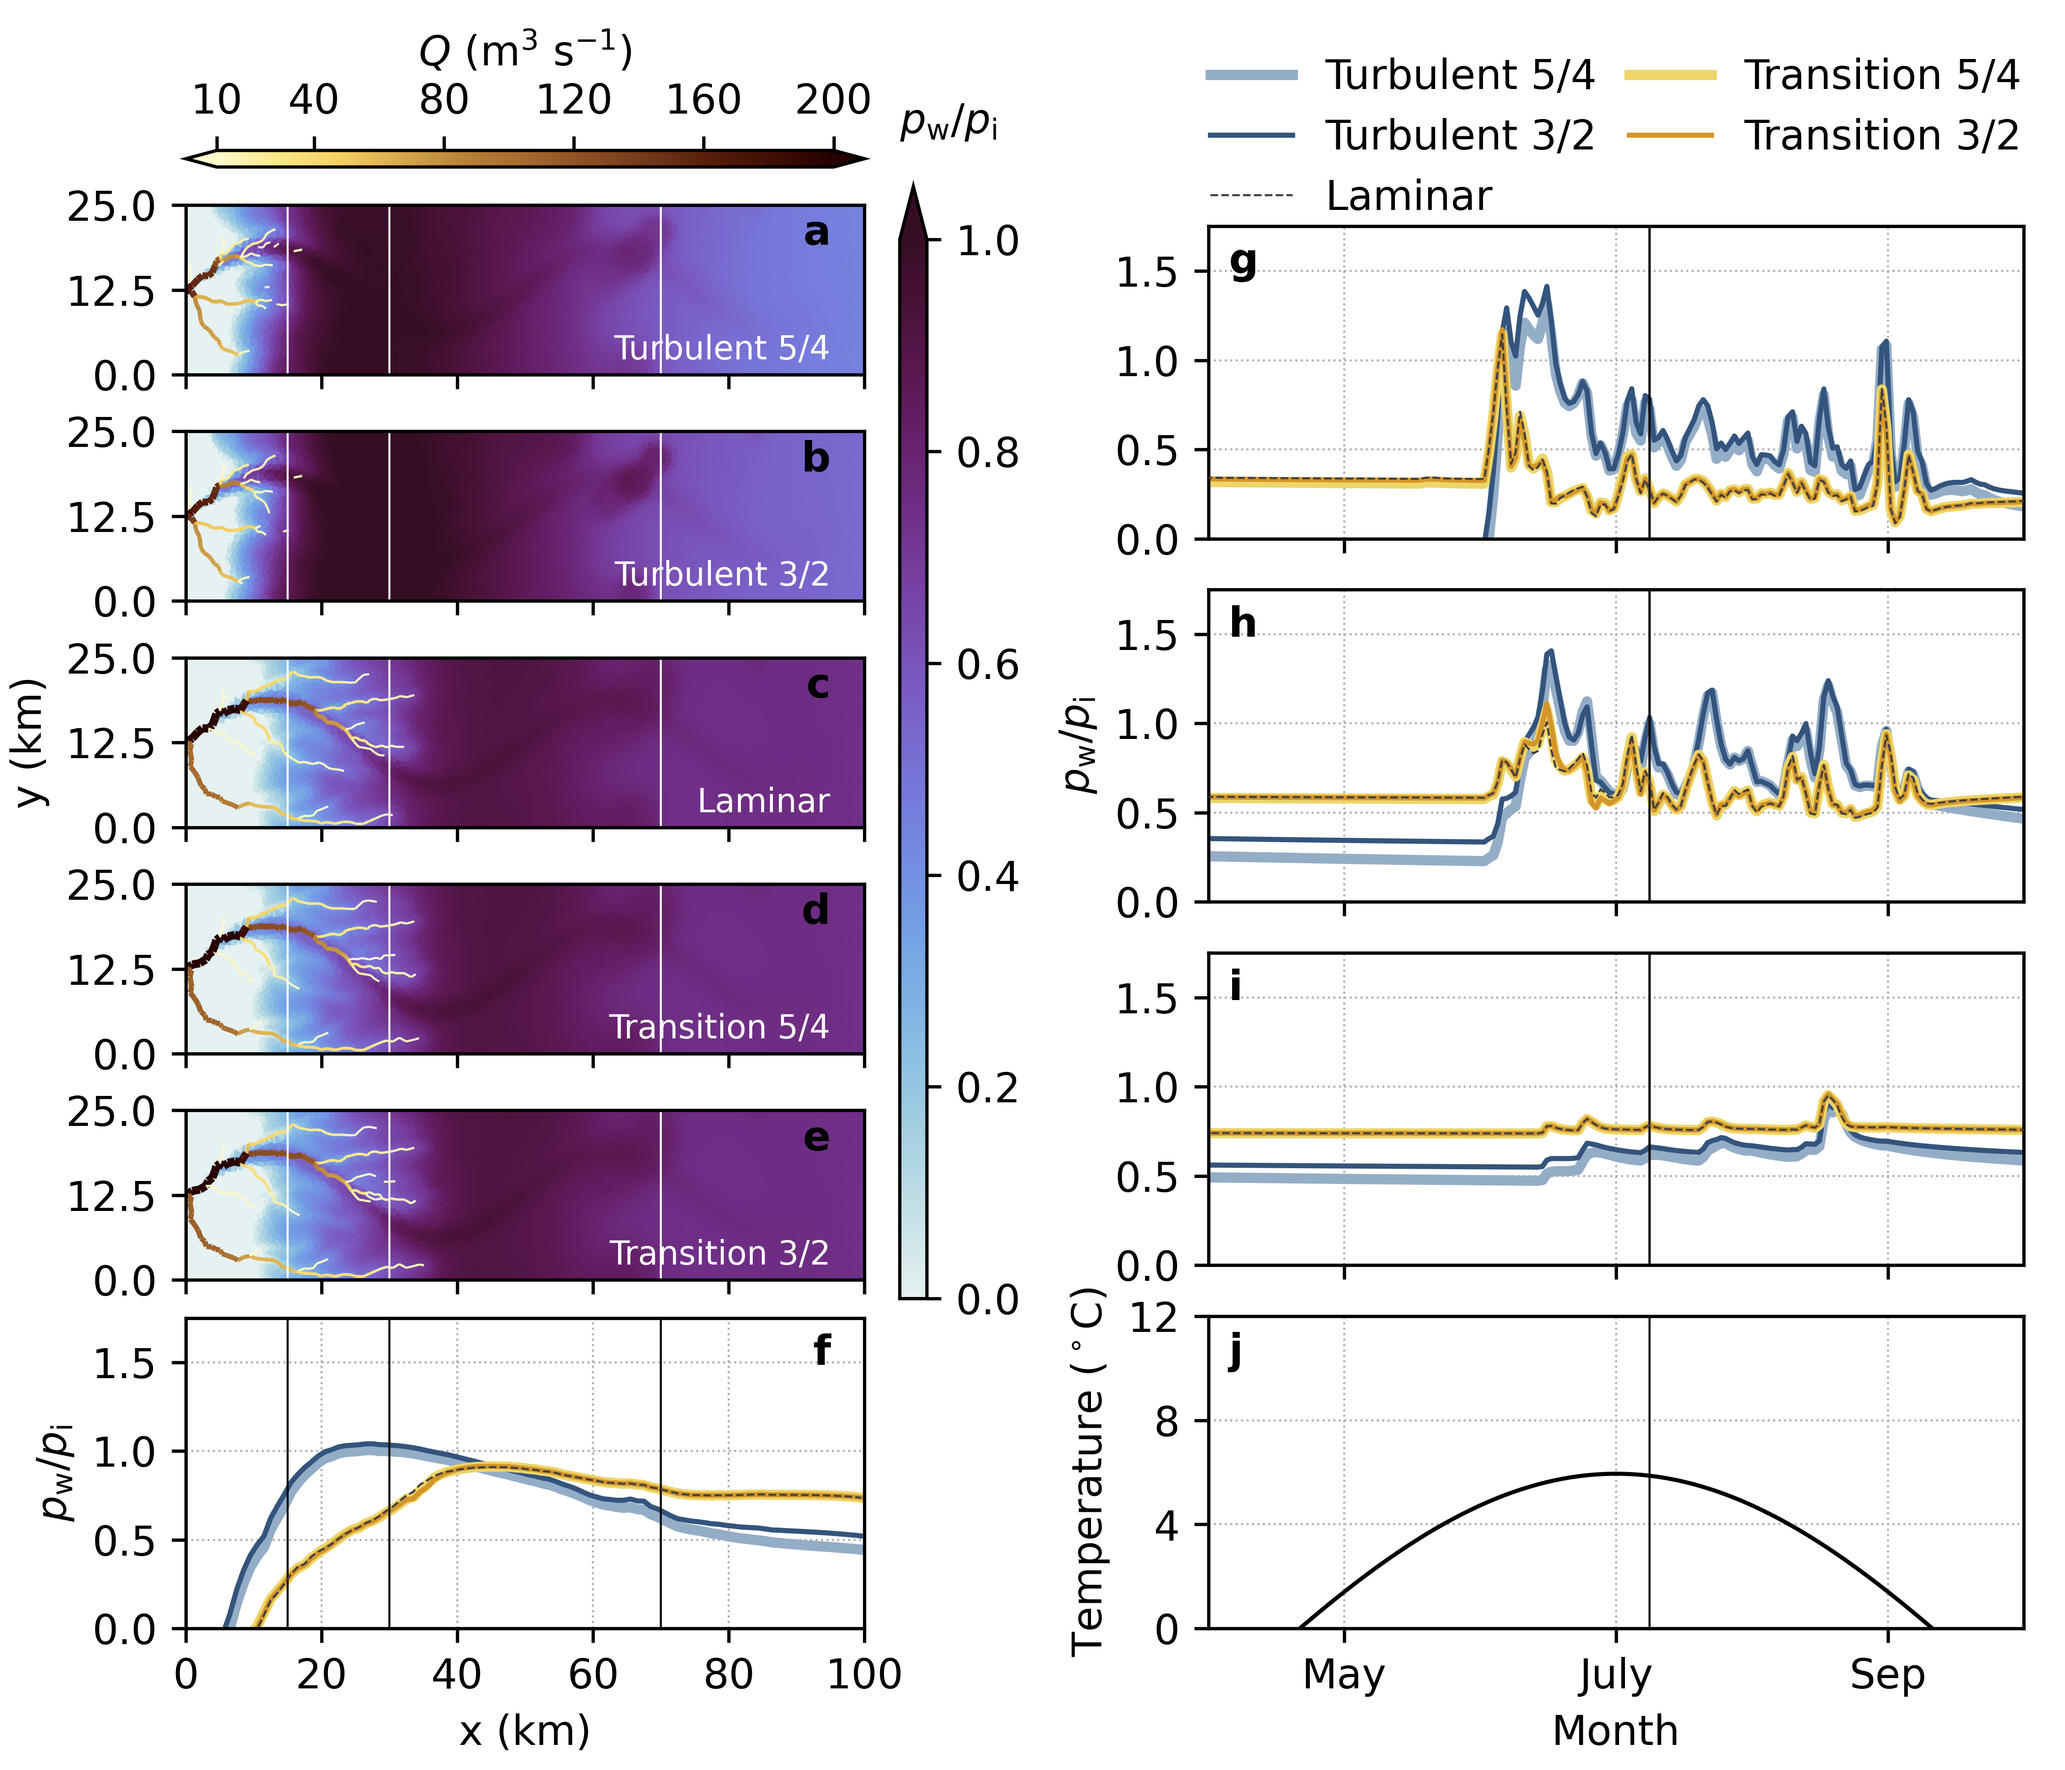
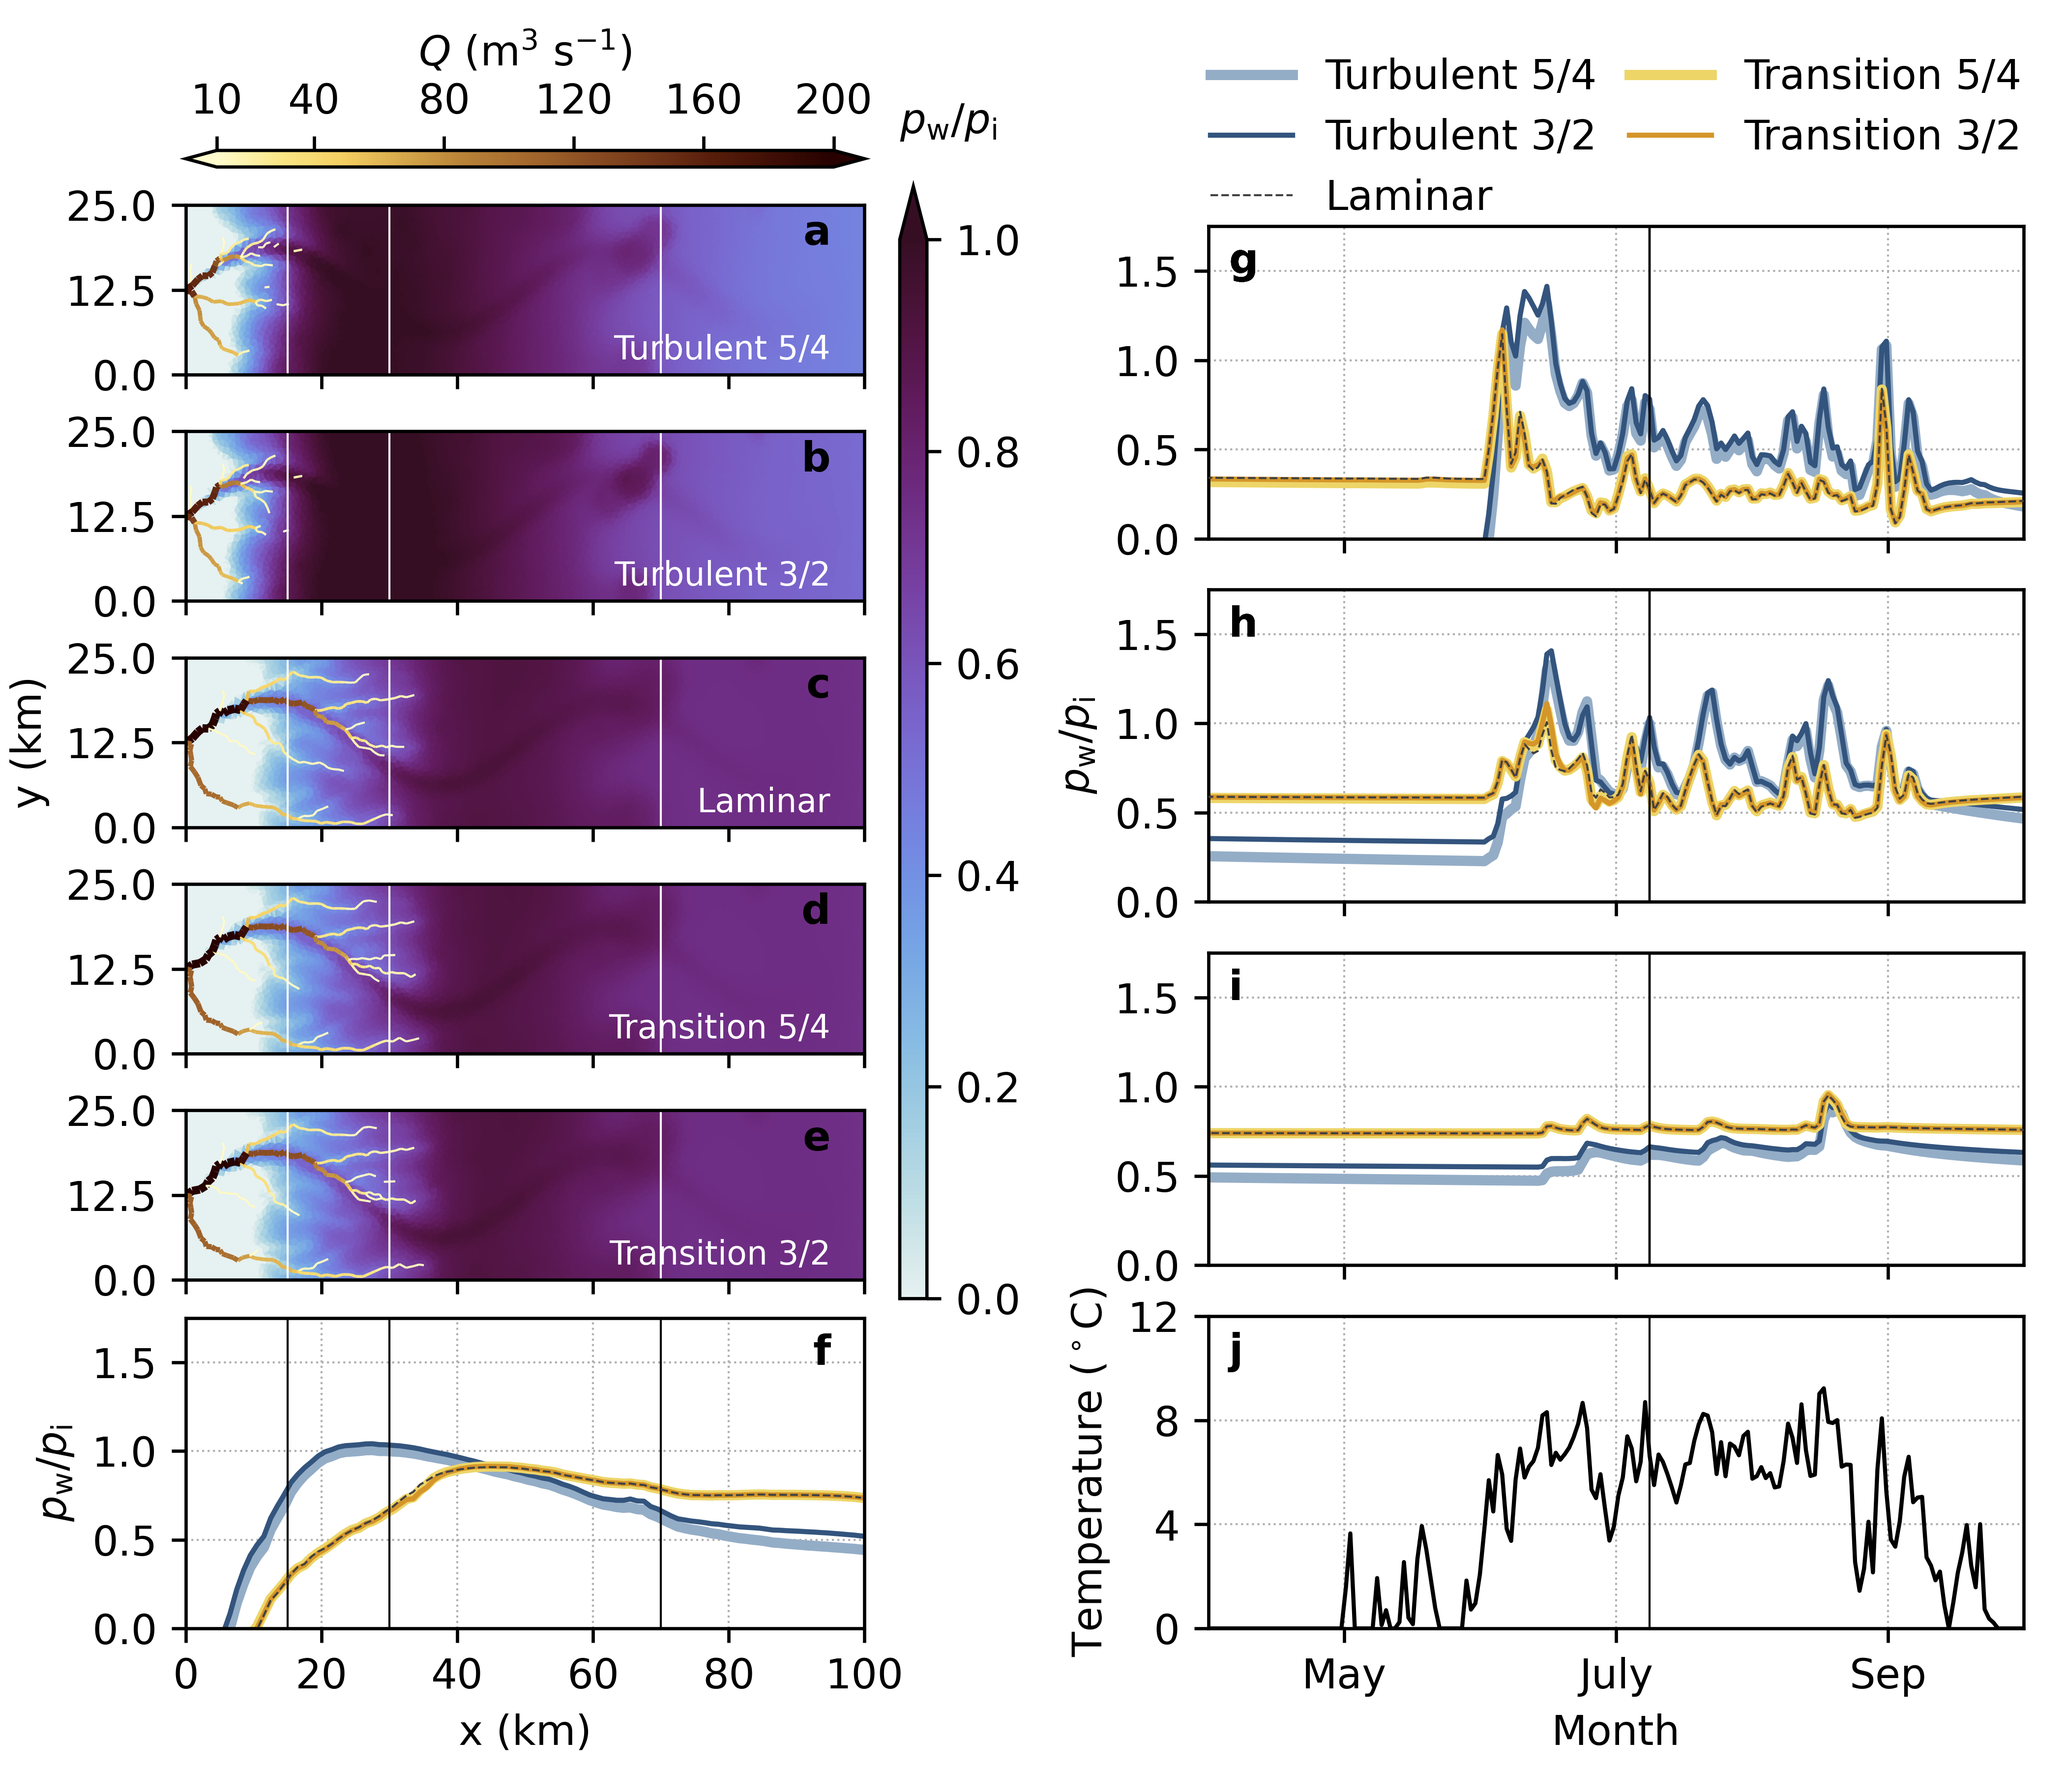
Correct melt forcing

Changed region(s): [[0.6238, 0.7778, 0.9669, 0.9333]]

diff --git a/analysis/make_pressure_figs.py b/analysis/make_pressure_figs.py
@@ -149,7 +149,7 @@ cases = [1, 2, 3, 4, 5]
 pattern = '../glads/_dev_03c_kan_forcing_trough2/RUN/output_%03d_seasonal.nc'
 fnames = [pattern % caseid for caseid in cases]
 figname = '03c_pressure_seasonal_trough2.png'
-fig_03c = plot_pressure_maps_timeseries(fnames, figname, Qmin=10, Qmax=200, melt_forcing='SHMIPadj',
+fig_03c = plot_pressure_maps_timeseries(fnames, figname, Qmin=10, Qmax=200, melt_forcing='KANadj',
     t_ticklabels=t_ticklabels[:-1], t_xlabel=t_xlabel, t_ticks=t_ticks[:-1], t_lim=[1+3/12, 1+9/12],
     ff_ylim=[0,1.75], ff_yticks=[0, 0.5, 1, 1.5])
 
